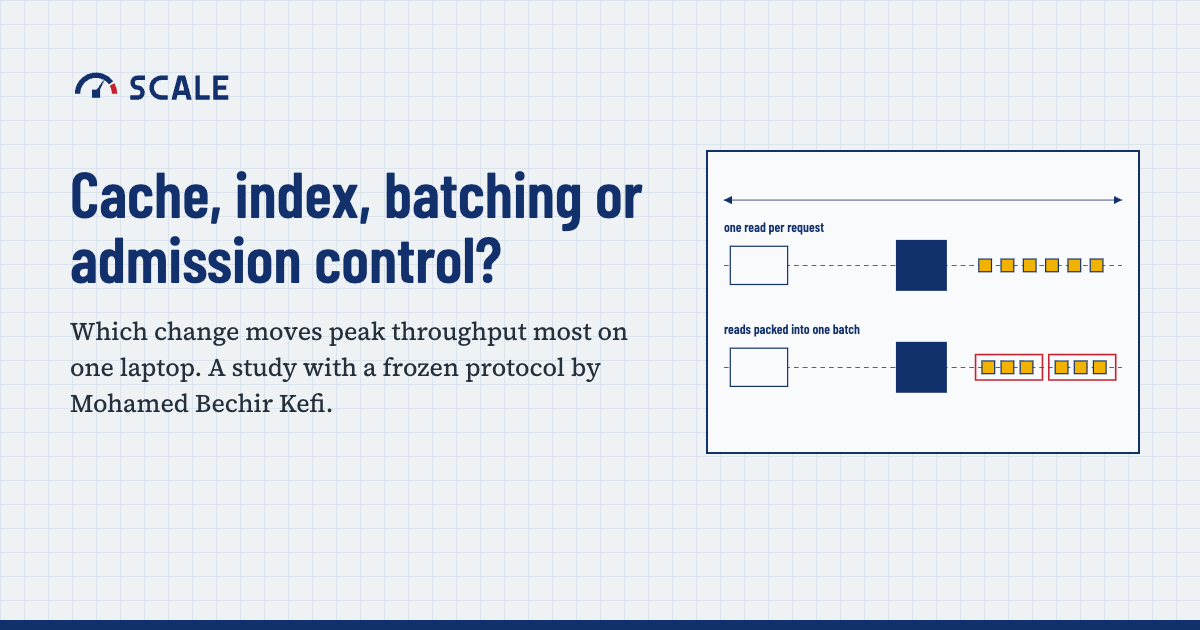
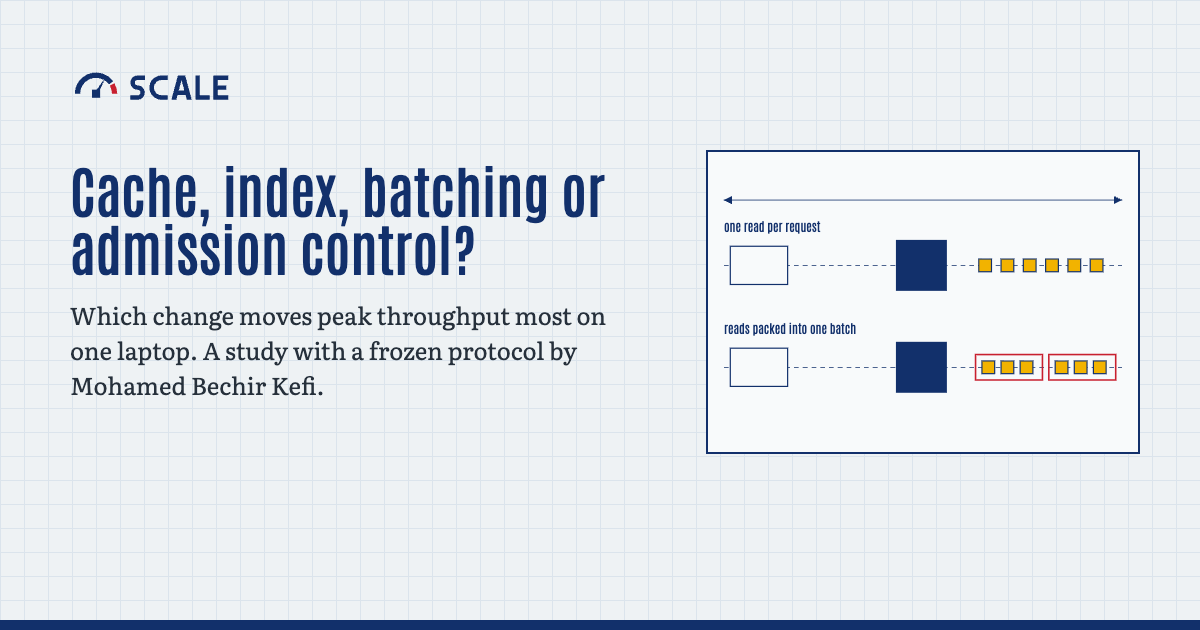
Demo: unique typeface pair across the labs (owner request 2026-11-26)

diff --git a/demo/src/style.css b/demo/src/style.css
@@ -1,18 +1,18 @@
 /* SPDX-License-Identifier: LicenseRef-SCALE-NC-Research-1.0 */
 /* SCALE: an engineering drawing on drafting film, with load gauges. Light only; see demo/DESIGN.md. */
 @font-face {
-  font-family: "Barlow Condensed";
+  font-family: "Antonio";
   font-style: normal;
-  font-weight: 600;
+  font-weight: 100 700;
   font-display: swap;
-  src: url("@fontsource/barlow-condensed/files/barlow-condensed-latin-600-normal.woff2") format("woff2");
+  src: url("@fontsource-variable/antonio/files/antonio-latin-wght-normal.woff2") format("woff2-variations");
 }
 @font-face {
-  font-family: "Source Serif 4";
+  font-family: "Literata";
   font-style: normal;
   font-weight: 200 900;
   font-display: swap;
-  src: url("@fontsource-variable/source-serif-4/files/source-serif-4-latin-wght-normal.woff2") format("woff2-variations");
+  src: url("@fontsource-variable/literata/files/literata-latin-wght-normal.woff2") format("woff2-variations");
 }
 
 :root {
@@ -26,18 +26,18 @@
   --error-bg: #fdecec; --error-fg: #8a1111;
   --ease-out: cubic-bezier(0.23, 1, 0.32, 1);
   --ease-in-out: cubic-bezier(0.77, 0, 0.175, 1);
-  --display: "Barlow Condensed", "Arial Narrow", sans-serif;
-  --text: "Source Serif 4", Georgia, serif;
+  --display: "Antonio", "Arial Narrow", sans-serif;
+  --text: "Literata", Georgia, serif;
   color-scheme: light;
 }
 * { box-sizing: border-box; }
 html { -webkit-text-size-adjust: 100%; scroll-padding-top: 72px; }
-body { margin: 0; background: var(--bg); color: var(--fg); font: 17px/1.68 var(--text); }
+body { margin: 0; background: var(--bg); color: var(--fg); font: 17px/1.64 var(--text); }
 h1, h2, h3, h4 { font-family: var(--display); font-weight: 600; color: var(--head); letter-spacing: 0.005em; }
-h1 { font-size: clamp(2.1rem, 4.8vw, 3.5rem); line-height: 1.04; margin: 0 0 1.3rem; text-wrap: balance; }
-h2 { font-size: clamp(1.7rem, 3vw, 2.3rem); line-height: 1.1; margin: 0 0 0.9rem; }
-h3 { font-size: 1.4rem; line-height: 1.2; margin: 1.4rem 0 0.5rem; }
-h4 { font-size: 1.15rem; line-height: 1.25; }
+h1 { font-size: clamp(1.8rem, 4.1vw, 3rem); line-height: 1.04; margin: 0 0 1.3rem; text-wrap: balance; }
+h2 { font-size: clamp(1.45rem, 2.6vw, 2rem); line-height: 1.1; margin: 0 0 0.9rem; }
+h3 { font-size: 1.2rem; line-height: 1.2; margin: 1.4rem 0 0.5rem; }
+h4 { font-size: 1.05rem; line-height: 1.25; }
 p, li { max-width: 70ch; }
 a { color: var(--accent); text-underline-offset: 0.18em; text-decoration-thickness: 1px; }
 :focus-visible { outline: 3px solid var(--focus); outline-offset: 3px; }
@@ -56,7 +56,7 @@ header.bar { position: sticky; top: 0; z-index: 20; background: rgba(248, 250, 2
 .brand img { display: block; height: 26px; width: auto; }
 header.bar nav { display: flex; overflow-x: auto; scrollbar-width: none; margin-left: auto; min-width: 0; }
 header.bar nav::-webkit-scrollbar { display: none; }
-header.bar nav a { color: var(--ink); text-decoration: none; font: 600 1.05rem/1 var(--display); letter-spacing: 0.02em; padding: 0 0.75rem;
+header.bar nav a { color: var(--ink); text-decoration: none; font: 600 0.95rem/1 var(--display); letter-spacing: 0.02em; padding: 0 0.75rem;
   min-height: 44px; display: inline-flex; align-items: center; white-space: nowrap; transition: color 160ms ease; }
 @media (hover: hover) and (pointer: fine) { header.bar nav a:hover { color: var(--redline); } }
 
@@ -79,8 +79,8 @@ header.bar nav a { color: var(--ink); text-decoration: none; font: 600 1.05rem/1
 .lanes-svg .server { fill: var(--ink); }
 .lanes-svg .gen { fill: var(--sheet); stroke: var(--ink); stroke-width: 1.5; }
 .lanes-svg text { font-family: var(--display); font-weight: 600; fill: var(--ink); }
-.lane-label { font-size: 17px; }
-.server-label { font-size: 15px; }
+.lane-label { font-size: 15.5px; }
+.server-label { font-size: 13.5px; }
 .lanes-svg .req { fill: var(--signal); stroke: var(--ink); stroke-width: 1.5; }
 .lanes-svg .box { fill: none; stroke: var(--redline); stroke-width: 2; }
 .lanes-svg .single, .lanes-svg .container { animation: ship 620ms var(--ease-out) both; }
@@ -95,7 +95,7 @@ section.hero { border-bottom: 2px solid var(--ink); }
 .meta { font-size: 0.875rem; overflow-wrap: anywhere; }
 .panel { background: var(--panel); border: 1.5px solid var(--ink); padding: 1.1rem 1.25rem; margin: 1.25rem 0; }
 .panel.error { background: var(--error-bg); color: var(--error-fg); }
-.badge { display: inline-block; border: 1.5px solid var(--muted); padding: 0.05rem 0.45rem; font: 600 0.92rem/1.35 var(--display);
+.badge { display: inline-block; border: 1.5px solid var(--muted); padding: 0.05rem 0.45rem; font: 600 0.83rem/1.35 var(--display);
   letter-spacing: 0.02em; white-space: nowrap; color: var(--graphite); background: var(--sheet); vertical-align: 0.08em; }
 .badge.kind-confirmatory { border-color: var(--ink); background: var(--ink); color: var(--sheet); }
 .badge.kind-frozen-sensitivity { border-color: var(--ink); border-style: double; border-width: 4px; color: var(--ink); }
@@ -111,17 +111,17 @@ section.hero { border-bottom: 2px solid var(--ink); }
 .exploratory-panel { border-style: dashed; border-color: #a85f00; }
 .excluded-note { background: var(--excl); border-color: var(--redline); }
 .none { font-weight: 650; }
-.h-small { font-size: 1.3rem; margin: 1.1rem 0 0.4rem; }
+.h-small { font-size: 1.17rem; margin: 1.1rem 0 0.4rem; }
 
 /* Tables */
 .table-scroll { overflow-x: auto; max-width: 100%; }
 table { border-collapse: collapse; width: 100%; font-size: 0.95rem; }
 th, td { text-align: left; padding: 0.45rem 0.65rem; border-bottom: 1px solid var(--line); vertical-align: top; }
-thead th { font: 600 1rem/1.2 var(--display); color: var(--ink); border-bottom: 1.5px solid var(--ink); letter-spacing: 0.02em; }
+thead th { font: 600 0.9rem/1.2 var(--display); color: var(--ink); border-bottom: 1.5px solid var(--ink); letter-spacing: 0.02em; }
 table th[scope=row] { min-width: 9rem; font-weight: 600; }
 dl.assumptions { margin: 0; }
 dl.assumptions div { display: grid; grid-template-columns: minmax(9rem, 1fr) 2.4fr; gap: 0.75rem; padding: 0.55rem 0; border-bottom: 1px solid var(--line); }
-dl.assumptions dt { font: 600 1.08rem/1.35 var(--display); color: var(--ink); } dl.assumptions dd { margin: 0; }
+dl.assumptions dt { font: 600 0.975rem/1.35 var(--display); color: var(--ink); } dl.assumptions dd { margin: 0; }
 @media (max-width: 36rem) { dl.assumptions div { grid-template-columns: 1fr; gap: 0.2rem; } }
 
 /* Key result: the gauge */
@@ -135,10 +135,10 @@ figure.gauge { margin: 1.25rem 0 2rem; }
 .gauge-svg .tick-major { stroke: var(--ink); stroke-width: 3; }
 .gauge-svg .tick-minor { stroke: var(--ink); stroke-width: 1.5; }
 .gauge-svg text { font-family: var(--display); font-weight: 600; fill: var(--ink); color: var(--ink); }
-.gauge-svg .dial-num { font-size: 22px; }
-.gauge-svg .dial-caption { font-size: 18px; fill: var(--graphite); }
-.gauge-svg .dial-caption.small { font-size: 15px; fill: var(--muted); }
-.gauge-svg .needle-label { font-size: 20px; }
+.gauge-svg .dial-num { font-size: 20px; }
+.gauge-svg .dial-caption { font-size: 16px; fill: var(--graphite); }
+.gauge-svg .dial-caption.small { font-size: 13.5px; font-weight: 500; letter-spacing: 0.02em; fill: var(--muted); }
+.gauge-svg .needle-label { font-size: 18px; }
 .gauge-svg .hub { fill: var(--ink); }
 .gauge-svg .ci-arc { fill: none; stroke-width: 9; stroke-linecap: butt; }
 .gauge-svg .needle { transform-box: view-box; transform-origin: 0 0; }
@@ -149,11 +149,11 @@ figure.gauge { margin: 1.25rem 0 2rem; }
 .gauge-svg .needle.n0 path { fill: var(--s4); } .gauge-svg .needle.n1 path { fill: var(--s1); } .gauge-svg .needle.n2 path { fill: var(--s3); }
 .gauge-legend { list-style: none; margin: 0; padding: 0; display: grid; gap: 0.35rem; }
 .gauge-legend li { display: grid; grid-template-columns: 1fr auto; gap: 0 1rem; padding: 0.55rem 0; border-bottom: 1px solid var(--line); max-width: none; }
-.gauge-legend .gl-name { font: 600 1.2rem/1.2 var(--display); color: var(--ink); }
-.gauge-legend .gl-val { font: 600 1.5rem/1.1 var(--display); color: var(--ink); text-align: right; font-variant-numeric: tabular-nums; }
+.gauge-legend .gl-name { font: 600 1.08rem/1.2 var(--display); color: var(--ink); }
+.gauge-legend .gl-val { font: 600 1.29rem/1.1 var(--display); color: var(--ink); text-align: right; font-variant-numeric: tabular-nums; }
 .gauge-legend .meta { grid-column: 1 / -1; }
 .gauge-legend .gl-excluded .gl-name, .gauge-legend .gl-excluded .gl-val { color: var(--redline); }
-.gauge-legend .gl-excluded .gl-val { font-size: 1.1rem; }
+.gauge-legend .gl-excluded .gl-val { font-size: 0.99rem; }
 .gauge figcaption { color: var(--muted); font-size: 0.93rem; margin-top: 0.6rem; max-width: 80ch; }
 
 /* Effect plot */
@@ -161,7 +161,7 @@ figure.effect { margin: 1.25rem 0; }
 figure.effect figcaption { color: var(--muted); font-size: 0.95rem; margin-bottom: 0.6rem; max-width: 80ch; }
 .effect-rows { list-style: none; margin: 0; padding: 0.5rem 1rem; background: var(--sheet); border: 1.5px solid var(--ink); }
 .effect-row { display: grid; grid-template-columns: 12rem 1fr 13rem; gap: 0.6rem; align-items: center; padding: 0.2rem 0; max-width: none; }
-.effect-name { font: 600 1.08rem/1.2 var(--display); color: var(--ink); }
+.effect-name { font: 600 0.975rem/1.2 var(--display); color: var(--ink); }
 .effect-row.excluded .effect-val { font-size: 0.9rem; }
 .effect-strip { display: block; overflow: visible; }
 .effect-strip .band { fill: var(--band); }
@@ -169,9 +169,9 @@ figure.effect figcaption { color: var(--muted); font-size: 0.95rem; margin-botto
 .effect-strip .ci { stroke: var(--ink); stroke-width: 2.5; }
 .effect-strip .pt { fill: var(--signal); stroke: var(--ink); stroke-width: 1.5; }
 .effect-strip .excl { fill: var(--excl); stroke: var(--redline); stroke-width: 1.5; stroke-dasharray: 5 3; }
-.excl-text { fill: var(--graphite); font: 600 14px var(--display); }
+.excl-text { fill: var(--graphite); font: 600 12.5px var(--display); }
 .tick { stroke: var(--muted); }
-.tick-label, .axis-label, .limit-label { fill: var(--fg); font-size: 13px; font-family: var(--display); font-weight: 600; }
+.tick-label, .axis-label, .limit-label { fill: var(--fg); font-size: 11.5px; font-family: var(--display); font-weight: 500; letter-spacing: 0.02em; }
 .axis-label { fill: var(--muted); }
 @media (max-width: 40rem) {
   .effect-row { grid-template-columns: 1fr; gap: 0.1rem; padding: 0.4rem 0; border-bottom: 1px solid var(--line); }
@@ -181,14 +181,14 @@ figure.effect figcaption { color: var(--muted); font-size: 0.95rem; margin-botto
 /* Explorer */
 .explorer .controls { margin: 0.9rem 0; }
 .controls { display: flex; flex-wrap: wrap; gap: 0.9rem; align-items: end; }
-.controls label { max-width: 100%; display: inline-flex; flex-direction: column; gap: 0.2rem; font: 600 1rem/1.3 var(--display); color: var(--ink); }
+.controls label { max-width: 100%; display: inline-flex; flex-direction: column; gap: 0.2rem; font: 600 0.9rem/1.3 var(--display); color: var(--ink); }
 input, button, select { font: inherit; padding: 0.4rem 0.6rem; min-height: 44px; color: var(--fg); background: var(--sheet);
   border: 1.5px solid var(--ink); border-radius: 0; max-width: 100%; }
 select { font: 400 1rem/1.3 var(--text); cursor: pointer; transition: border-color 160ms ease; }
 @media (hover: hover) and (pointer: fine) { select:hover { border-color: var(--redline); } }
 .arm-toggles { border: 1.5px solid var(--ink); padding: 0.3rem 0.7rem 0.6rem; margin: 0; display: flex; flex-wrap: wrap; gap: 0.2rem 1rem;
   min-width: 0; max-width: 100%; background: var(--sheet); }
-.arm-toggles legend { padding: 0 0.3rem; font: 600 1rem/1.3 var(--display); color: var(--ink); }
+.arm-toggles legend { padding: 0 0.3rem; font: 600 0.9rem/1.3 var(--display); color: var(--ink); }
 .arm-toggle { display: inline-flex !important; flex-direction: row !important; align-items: center; gap: 0.4rem; min-height: 44px; font: 400 0.98rem/1.3 var(--text) !important; color: var(--fg) !important; cursor: pointer; }
 .arm-toggle input { min-height: 0; width: 20px; height: 20px; padding: 0; accent-color: var(--ink); }
 .chart-wrap { width: 100%; background: var(--sheet); border: 1.5px solid var(--ink); padding: 0.5rem; }
@@ -214,7 +214,7 @@ select { font: 400 1rem/1.3 var(--text); cursor: pointer; transition: border-col
 
 pre.cmd { background: var(--sheet); border: 1.5px solid var(--ink); padding: 1rem 1.1rem; overflow-x: auto; max-width: 100%; }
 pre.cmd code { font-size: 0.88rem; color: var(--graphite); }
-details summary { cursor: pointer; padding: 0.65rem 0; color: var(--ink); font: 600 1.08rem/1.3 var(--display); }
+details summary { cursor: pointer; padding: 0.65rem 0; color: var(--ink); font: 600 0.975rem/1.3 var(--display); }
 ol li { margin-bottom: 0.35rem; }
 
 /* Footer: a drawing title block */
@@ -223,9 +223,9 @@ footer.site { padding: 2.5rem 0 3rem; color: var(--muted); font-size: 0.93rem; }
 .tb-mark { grid-row: span 3; display: flex; align-items: center; justify-content: center; }
 .tb-cell { display: flex; flex-direction: column; padding: 0.45rem 0.75rem; border-left: 1.5px solid var(--ink); border-top: 1px solid var(--ink); min-width: 0; }
 .tb-title { grid-column: span 2; border-top: 0; }
-.tb-k { font: 600 0.85rem/1.3 var(--display); color: var(--muted); letter-spacing: 0.02em; }
+.tb-k { font: 500 0.77rem/1.3 var(--display); color: var(--muted); letter-spacing: 0.03em; }
 .tb-v { color: var(--graphite); overflow-wrap: anywhere; }
-.tb-title .tb-v { font: 600 1.35rem/1.2 var(--display); color: var(--ink); }
+.tb-title .tb-v { font: 600 1.16rem/1.2 var(--display); color: var(--ink); }
 .foot-links { list-style: none; padding: 0; display: flex; flex-wrap: wrap; gap: 0 1.5rem; margin: 0.5rem 0 1rem; }
 .foot-links a { display: inline-flex; align-items: center; min-height: 44px; }
 
@@ -248,10 +248,10 @@ footer.site { padding: 2.5rem 0 3rem; color: var(--muted); font-size: 0.93rem; }
   table.stack th, table.stack td { display: block; border: 0; padding: 0.15rem 0; white-space: normal; min-width: 0; }
   table.stack td::before { content: attr(data-label) ": "; color: var(--muted); font-size: 0.85rem; }
   table.stack td:empty { display: none; }
-  .gauge-svg .dial-num { font-size: 30px; }
-  .gauge-svg .needle-label { font-size: 28px; }
-  .gauge-svg .dial-caption { font-size: 26px; }
-  .gauge-svg .dial-caption.small { font-size: 22px; }
+  .gauge-svg .dial-num { font-size: 27px; }
+  .gauge-svg .needle-label { font-size: 25px; }
+  .gauge-svg .dial-caption { font-size: 23.5px; }
+  .gauge-svg .dial-caption.small { font-size: 20px; }
 }
 @media (prefers-reduced-motion: reduce) {
   *, *::before, *::after { animation: none !important; transition: none !important; scroll-behavior: auto !important; }

diff --git a/demo/tools/og/og.html b/demo/tools/og/og.html
@@ -1,0 +1,24 @@
+<!doctype html>
+<!-- SPDX-License-Identifier: LicenseRef-SCALE-NC-Research-1.0 -->
+<!-- Source of public/brand/og.png (1200 x 630, Chrome headless). Illustration only, no study number. -->
+<html><head><meta charset="utf-8"><style>
+@font-face{font-family:AN;src:url(../../node_modules/@fontsource-variable/antonio/files/antonio-latin-wght-normal.woff2);font-weight:100 700}@font-face{font-family:LI;src:url(../../node_modules/@fontsource-variable/literata/files/literata-latin-wght-normal.woff2);font-weight:200 900}
+html,body{margin:0;width:1200px;height:630px;overflow:hidden;background:#EEF2F4}
+.w{position:relative;width:1200px;height:630px;box-sizing:border-box;padding:60px 70px;
+background-image:linear-gradient(#DBE4EC 1px,transparent 1px),linear-gradient(90deg,#DBE4EC 1px,transparent 1px);background-size:24px 24px}
+img{height:52px} h1{font:600 56px/1.04 AN;color:#12306B;width:620px;margin:44px 0 22px}
+p{font:400 24px/1.45 LI;color:#26303B;width:560px;margin:0}
+svg{position:absolute;right:60px;top:150px;background:#F8FAFB;border:2px solid #12306B}
+.f{position:absolute;left:0;right:0;bottom:0;height:10px;background:#12306B}
+</style></head><body><div class="w"><img src="../../public/brand/scale-lockup.svg"><h1>Cache, index, batching or admission control?</h1>
+<p>Which change moves peak throughput most on one laptop. A study with a frozen protocol by Mohamed Bechir Kefi.</p>
+<svg width="430" height="300" viewBox="0 0 540 300" font-family="AN" font-weight="600" fill="#12306B">
+<line x1="20" x2="520" y1="22" y2="22" stroke="#12306B"/><path d="M20 22 l10 -5 v10 Z M520 22 l-10 -5 v10 Z"/>
+<text x="20" y="62" font-size="15.5">one read per request</text><line x1="20" x2="520" y1="104" y2="104" stroke="#12306B" stroke-dasharray="6 5"/>
+<rect x="28" y="80" width="72" height="48" fill="#F8FAFB" stroke="#12306B" stroke-width="1.5"/><rect x="236" y="72" width="64" height="64"/>
+<g fill="#F2B300" stroke="#12306B" stroke-width="1.5"><rect x="340" y="96" width="16" height="16"/><rect x="368" y="96" width="16" height="16"/><rect x="396" y="96" width="16" height="16"/><rect x="424" y="96" width="16" height="16"/><rect x="452" y="96" width="16" height="16"/><rect x="480" y="96" width="16" height="16"/></g>
+<text x="20" y="190" font-size="15.5">reads packed into one batch</text><line x1="20" x2="520" y1="232" y2="232" stroke="#12306B" stroke-dasharray="6 5"/>
+<rect x="28" y="208" width="72" height="48" fill="#F8FAFB" stroke="#12306B" stroke-width="1.5"/><rect x="236" y="200" width="64" height="64"/>
+<g fill="none" stroke="#C8202F" stroke-width="2"><rect x="336" y="216" width="84" height="32"/><rect x="428" y="216" width="84" height="32"/></g>
+<g fill="#F2B300" stroke="#12306B" stroke-width="1.5"><rect x="344" y="224" width="16" height="16"/><rect x="368" y="224" width="16" height="16"/><rect x="392" y="224" width="16" height="16"/><rect x="436" y="224" width="16" height="16"/><rect x="460" y="224" width="16" height="16"/><rect x="484" y="224" width="16" height="16"/></g>
+</svg><div class="f"></div></div></body></html>

diff --git a/demo/src/App.tsx b/demo/src/App.tsx
@@ -86,7 +86,7 @@ cd demo && npm ci && npm test && npm run build`}</code></pre>
             protocol drafting, analysis and text; it is not an author.
           </p>
           <p>
-            Type: Barlow Condensed (Jeremy Tribby) and Source Serif 4 (Frank Grie&szlig;hammer, Adobe), both under the SIL
+            Type: Antonio (Vernon Adams) and Literata (TypeTogether), both under the SIL
             Open Font License 1.1, served from this site.
           </p>
         </div>

diff --git a/progress.md b/progress.md
@@ -324,3 +324,25 @@ The owner's full-text review and sign-off (B16), the article drafts (B15), and t
 - `npm test`: "Test Files 1 passed (1)", "Tests 14 passed (14)". `npm run build`: JS 257.42 kB (79.56 kB gzip), CSS 14.87 kB, fonts 22.30 kB and 50.93 kB; `dist/` 467,308 bytes in total. `node tools/a11y_check.mjs dist`: 9 PASS lines, keyboard 29 of 29, "A11Y-CHECK PASS". `.venv/bin/python -m pytest -q`: "139 passed in 25.00s".
 - Screenshots: `python3 -m http.server 5228 --bind 127.0.0.1` (stopped after use). The Chrome `--screenshot` mode with `--virtual-time-budget=4000` froze the needle animation at its first frame (a headless artefact: a real-time CDP check showed the three needle animations running at 0.8 s and finished with the correct transforms at 4.3 s), so the final screenshots were taken over CDP in real time (desktop 1440 wide, phone 390 wide by device emulation). Two critique passes: fixed the needle transform origin, moved the dial caption below the hub, rebuilt the title block grid, enlarged phone gauge text, stacked the tables on phones, added the load generator to the illustration.
 - Next action: the coordinator deploys on the owner's word. Nothing pushed.
+
+## 2026-11-26: Demo typefaces replaced, unique pair across the labs (owner request)
+
+Authority: owner request of 2026-11-26 (shared brief `labs/_shared/FONT-UNIQUE-brief.md`): no two lab demos share a typeface. SCALE replaces both faces: Barlow Condensed becomes Antonio (display) and Source Serif 4 becomes Literata (text). Presentation only: no number, data, fixture, test expectation, accessible name or scientific sentence changed. No push, no deploy.
+
+**Changes.** `@fontsource/barlow-condensed` and `@fontsource-variable/source-serif-4` removed; `@fontsource-variable/antonio@5.3.0` and `@fontsource-variable/literata@5.3.0` added (OFL 1.1, latin subset of the weight axis only, self-hosted through `@font-face` in `style.css`). Both faces have tabular figures (checked in Chrome with `tnum`). Measured in Chrome: Antonio cap height 0.86 em against 0.70 for Barlow Condensed and about 6 per cent wider at 600, so headings and large numerals were scaled by 0.86 and smaller display labels, chart ticks and gauge captions by 0.9; the smallest labels moved to weight 500 with light tracking. Literata x-height 0.51 em against 0.49 for Source Serif 4: body kept at 17 px, line height 1.68 to 1.64. The wordmark is hand-drawn geometry, not drawn from a typeface, so the logo set was not redrawn. `og.png` re-exported with the new faces from a new in-repo source `demo/tools/og/og.html` (layout of the brand-round source; headline 56 px Antonio, text 24 px Literata). `demo/DESIGN.md`, `demo/README.md` and the footer type credit updated.
+
+**Commands and actual outputs.**
+
+```
+$ npm uninstall @fontsource/barlow-condensed @fontsource-variable/source-serif-4   removed 2 packages
+$ npm_config_before=2026-11-12 npm install --save-exact @fontsource-variable/antonio@5.3.0 @fontsource-variable/literata@5.3.0   added 2 packages
+$ npm test                                             Tests 14 passed (14)
+$ npm run build                                        index js 257.39 kB (gzip 79.53 kB); antonio woff2 26.59 kB; literata woff2 52.49 kB
+$ node tools/a11y_check.mjs dist                       A11Y-CHECK PASS
+$ PYTHONPATH=src .venv/bin/python -m pytest -q tests/test_demo_export.py   4 passed
+$ du -sk dist                                          500 KB on disk; 473,666 bytes
+```
+
+Screenshots (desktop 1440 and phone 390, full page, Chrome headless over CDP, preview on 127.0.0.1:5241, stopped after) reviewed: headings, gauge, tables and the title block fit; no wrapping, overflow or clipped label introduced.
+
+**Next action.** The coordinator deploys the rebuilt demo when the owner approves.

diff --git a/demo/DESIGN.md b/demo/DESIGN.md
@@ -24,8 +24,12 @@ Light only: a drawing is ink on film, and a dark variant would read as a bluepri
 
 ## Type
 
-- **Barlow Condensed** (600, latin): headings, labels, gauge numerals, table heads, the title block. Its narrow, straight-sided forms recall the lettering of engineering drawings and highway signs.
-- **Source Serif 4** (variable weight, latin): body and table text, with tabular lining figures. A technical-report serif makes the long methodological text comfortable and sets SCALE apart from the sans-serif pages of the other labs.
+On 2026-11-26 both faces were replaced so that no two lab demos share a typeface (owner request; Barlow Condensed and Source Serif 4 now belong to other labs).
+
+- **Antonio** (variable weight, latin; used at 600, and at 500 for the smallest labels): headings, labels, gauge numerals, table heads, the title block. A tall, tightly condensed grotesque with straight sides and a very high x-height, close to the stencilled and plotted lettering on engineering drawings and instrument dials. It has tabular figures, so gauge readings and legend values stay aligned.
+- **Literata** (variable weight, latin; used at 400 and 700): body and table text, with tabular lining figures. A sturdy book serif drawn for long reading on screens; its firm wedge serifs and even colour suit the long methodological text and keep SCALE the one serif-bodied lab next to a condensed sans.
+
+Tuning for the new faces, measured in Chrome: Antonio's cap height is 0.86 em against 0.70 for Barlow Condensed and it sets about 6 per cent wider at the same size and weight, so heading and large numeral sizes were multiplied by 0.86 and smaller display labels, chart ticks and gauge captions by 0.9 (cap heights stay equal or slightly taller, lines get shorter). The smallest labels (chart ticks, title-block keys, small dial captions) moved to weight 500 with 0.02 to 0.03 em tracking, because Antonio's 600 closes up at 12 px. Literata has a slightly higher x-height than Source Serif 4 (0.51 against 0.49 em) at about the same width, so the 17 px body stays and its line height went from 1.68 to 1.64.
 
 ## Layout
 
@@ -73,4 +77,4 @@ The load gauge: the study's confirmatory ratios as needles on a log-scale dial w
 
 ## Brand files
 
-`public/brand/`: `scale-mark.svg`, `scale-mark-dark.svg`, `scale-mark-mono.svg`, `scale-wordmark.svg`, `scale-lockup.svg`, `scale-lockup-dark.svg`, `scale-lockup-mono.svg`, `favicon.svg`, `favicon-32.png`, `og.png` (1200 x 630). Mark: a load gauge (a half-ring dial with a separated redline segment), a needle and a square hub that doubles as a packed container. Wordmark: SCALE drawn from half-ring bowls and straight strokes on a 120-unit cap height. All paths drawn by hand; `svg_audit.py` scores 99 to 100 with no warning.
+`public/brand/`: `scale-mark.svg`, `scale-mark-dark.svg`, `scale-mark-mono.svg`, `scale-wordmark.svg`, `scale-lockup.svg`, `scale-lockup-dark.svg`, `scale-lockup-mono.svg`, `favicon.svg`, `favicon-32.png`, `og.png` (1200 x 630). Mark: a load gauge (a half-ring dial with a separated redline segment), a needle and a square hub that doubles as a packed container. Wordmark: SCALE drawn from half-ring bowls and straight strokes on a 120-unit cap height. All paths drawn by hand; `svg_audit.py` scores 99 to 100 with no warning. The wordmark is not drawn from any typeface, so the 2026-11-26 typeface change left the mark, wordmark, lockups and favicon unchanged; `og.png` was re-exported with Antonio and Literata from `tools/og/og.html`.

diff --git a/demo/README.md b/demo/README.md
@@ -20,7 +20,7 @@ Static benchmark report and resource and latency explorer of the recorded EXP-00
 
 ## Third-party notes
 
-- **Barlow Condensed** by Jeremy Tribby: package `@fontsource/barlow-condensed`, version v5.3.0, pinned exactly; only the latin subset at weight 600 is bundled. Licence: SIL Open Font License (OFL-1.1).
-- **Source Serif 4** by Frank Griesshammer for Adobe: package `@fontsource-variable/source-serif-4`, version v5.3.1, pinned exactly; only the latin subset of the variable weight axis is bundled. Licence: SIL Open Font License (OFL-1.1).
+- **Antonio** by Vernon Adams: package `@fontsource-variable/antonio`, version v5.3.0, pinned exactly; only the latin subset of the variable weight axis is bundled. Licence: SIL Open Font License (OFL-1.1).
+- **Literata** by TypeTogether: package `@fontsource-variable/literata`, version v5.3.0, pinned exactly; only the latin subset of the variable weight axis (default optical size) is bundled. Licence: SIL Open Font License (OFL-1.1).
 
 Both are self-hosted in the built page; nothing is loaded from another origin. They are the only dependencies added; the other pinned versions are unchanged.
